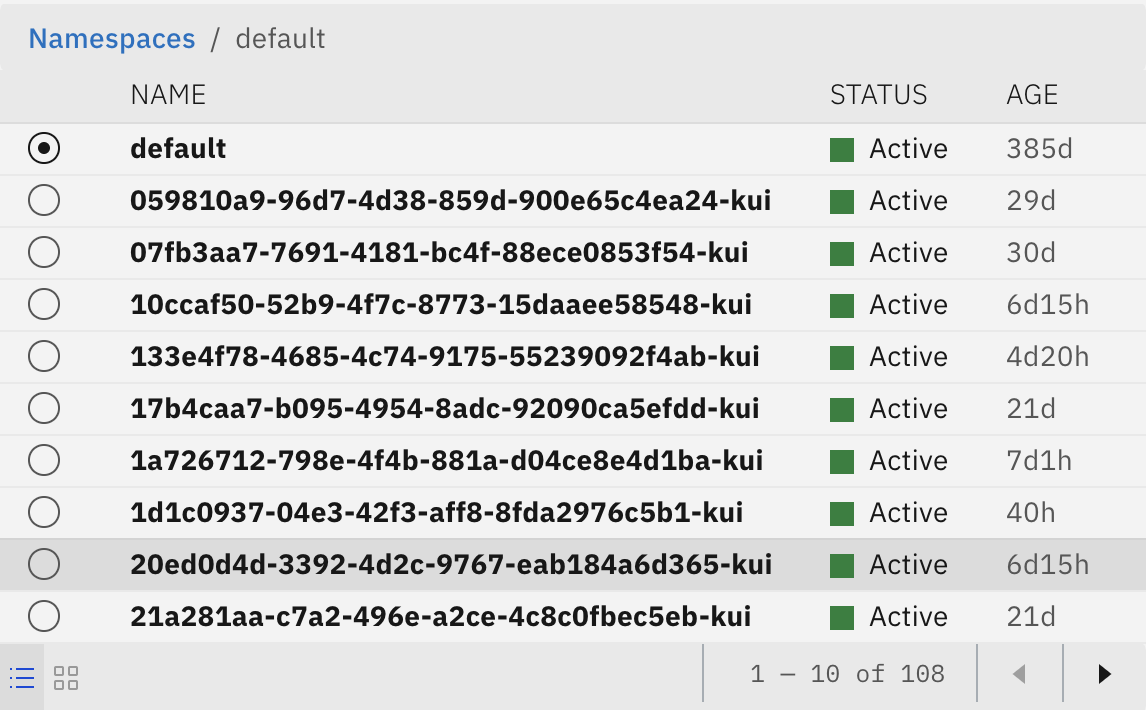
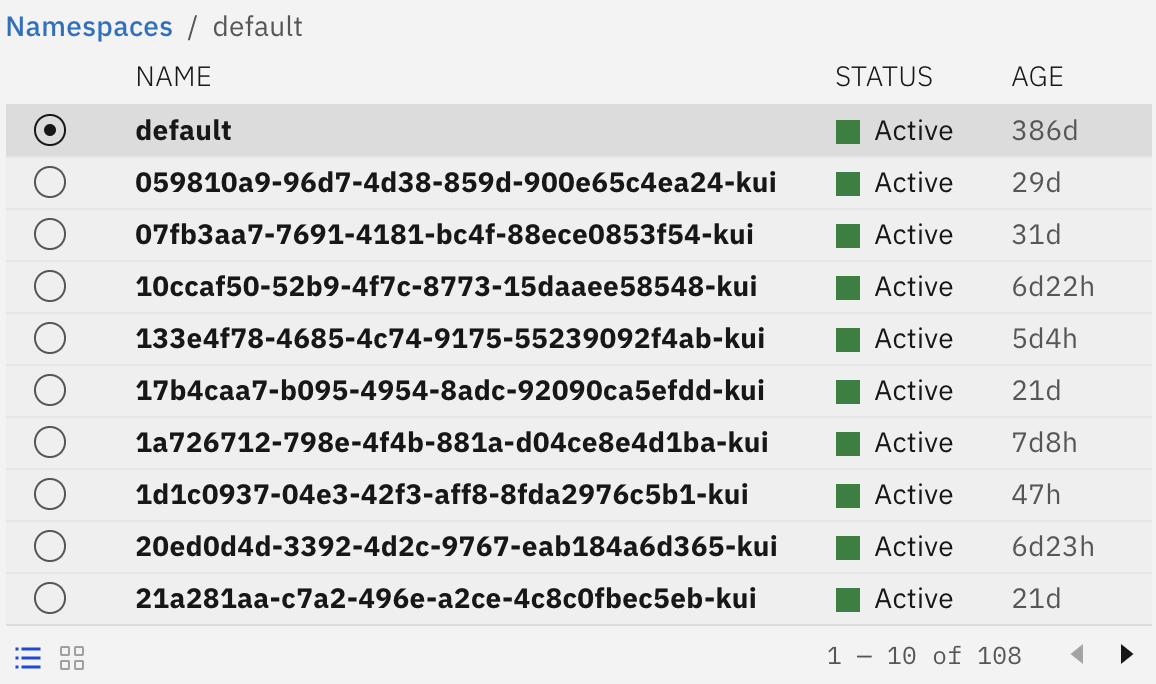
fix: lighten up the PaginatedTable UI
Fixes #4155

diff --git a/plugins/plugin-client-common/web/scss/components/Table/Toolbar.scss b/plugins/plugin-client-common/web/scss/components/Table/Toolbar.scss
@@ -1,15 +1,9 @@
-$toolbar-height: 2.375em;
+$toolbar-height: 1.875em;
 
 body[kui-theme-style='light'] {
-  .kui--data-table-toolbar,
-  .bx--data-table-container.kui--data-table-container-with-toolbars.kui--data-table-container-with-title th {
-    background-color: rgba(0, 0, 0, 0.0375);
-  }
-}
-body[kui-theme-style='dark'] {
-  .kui--data-table-toolbar,
-  .bx--data-table-container.kui--data-table-container-with-toolbars.kui--data-table-container-with-title th {
-    background-color: var(--color-base01);
+  .bx--data-table-container.kui--data-table-container-with-toolbars.kui--data-table-container-with-title td,
+  .bx--data-table.kui--data-table-as-grid {
+    background-color: rgba(0, 0, 0, 0.01375);
   }
 }
 
@@ -17,13 +11,29 @@ body[kui-theme-style='dark'] {
   padding-top: 0;
 }
 
+.kui--data-table-wrapper {
+  /* so that captured screenshots have some padding away from the breadcrumbs */
+  padding: 0 0.1875em;
+}
+
+.kui--toolbar-button-with-icon {
+  &[data-enabled='true'] {
+    svg {
+      fill: var(--color-base0D);
+      path {
+        /* give the enabled button a bit more weight */
+        stroke: var(--color-base0D);
+        stroke-width: 1.1;
+      }
+    }
+  }
+  &[data-enabled='false'] svg {
+    filter: opacity(0.375);
+  }
+}
+
 body[kui-theme-style] .kui--data-table-toolbar {
   display: flex;
-  border-radius: 2px / 4px;
-
-  &:first-child {
-    margin-top: 0.125em;
-  }
 
   nav[aria-label='Breadcrumb'] {
     overflow-x: unset;
@@ -38,10 +48,18 @@ body[kui-theme-style] .kui--data-table-toolbar {
     height: $toolbar-height;
   }
 
-  [aria-label='Breadcrumb'] {
+  &.kui--data-table-toolbar-bottom {
+    padding-top: 0.1875em;
+  }
+
+  nav[aria-label='Breadcrumb'] {
     display: flex;
     align-items: center;
     flex: 1;
+
+    .bx--breadcrumb {
+      padding-left: 0;
+    }
   }
 
   .kui--toolbar-button-with-icon {
@@ -64,7 +82,6 @@ body[kui-theme-style] .kui--data-table-toolbar {
     border: none;
     background-color: transparent;
     width: unset;
-    height: $toolbar-height;
     align-items: unset;
 
     .kui--data-table-toolbar-pagination-info {
@@ -75,8 +92,7 @@ body[kui-theme-style] .kui--data-table-toolbar {
       display: flex;
       justify-content: flex-end;
       align-items: center;
-      border-left: 1px solid;
-      border-color: var(--color-table-border3);
+      border: none;
     }
   }
 }

diff --git a/plugins/plugin-client-common/src/components/Table/PaginatedTable.tsx b/plugins/plugin-client-common/src/components/Table/PaginatedTable.tsx
@@ -114,7 +114,7 @@ export default class PaginatedTable<P extends Props, S extends State> extends Re
         )
       )
 
-      return <Toolbar breadcrumbs={breadcrumbs.length > 0 && breadcrumbs} />
+      return <Toolbar className="kui--data-table-toolbar-top" breadcrumbs={breadcrumbs.length > 0 && breadcrumbs} />
     }
   }
 
@@ -131,7 +131,8 @@ export default class PaginatedTable<P extends Props, S extends State> extends Re
     return (
       this.props.toolbars && (
         <Toolbar
-          frame={this.state.asGrid}
+          framed
+          className="kui--data-table-toolbar-bottom"
           asGrid={this.state.asGrid}
           gridableColumn={this.state.gridableColumn}
           setAsGrid={(asGrid: boolean) => this.setState({ asGrid })}

diff --git a/plugins/plugin-client-common/src/components/Table/Toolbar.tsx b/plugins/plugin-client-common/src/components/Table/Toolbar.tsx
@@ -30,7 +30,8 @@ import 'carbon-components/scss/components/pagination/_pagination.scss'
 export type Props = Partial<GridProps> &
   Partial<PaginationProps> &
   Partial<BreadcrumbProps> & {
-    frame?: boolean
+    framed?: boolean
+    className?: string
   }
 
 interface GridProps {
@@ -168,8 +169,10 @@ export default class Toolbar extends React.PureComponent<Props> {
   }
 
   public render() {
+    const className = 'kui--data-table-toolbar' + (this.props.className ? ` ${this.props.className}` : '')
+
     return (
-      <div className="kui--data-table-toolbar" data-frame={this.props.frame}>
+      <div className={className} data-frame={this.props.framed}>
         {this.breadcrumbs()}
         {this.buttons()}
         {this.filler()}

diff --git a/plugins/plugin-client-common/web/scss/components/Table/kui-tables.scss b/plugins/plugin-client-common/web/scss/components/Table/kui-tables.scss
@@ -9,14 +9,19 @@ body[kui-theme-style] {
       tbody tr.bx--data-table--selected:hover {
         &,
         td {
-          background-color: var(--color-base03);
+          background-color: var(--color-ui-03);
         }
       }
 
-      &.bx--data-table--compact td {
-        border-color: transparent;
-        border-bottom: 1px solid var(--color-base03);
-        vertical-align: middle;
+      &.bx--data-table--compact {
+        td {
+          border-color: transparent;
+          border-bottom: 1px solid var(--color-base03);
+          vertical-align: middle;
+        }
+        tr:last-child td {
+          border-bottom: none;
+        }
       }
     }
   }

diff --git a/plugins/plugin-client-common/web/scss/components/Table/pagination.scss b/plugins/plugin-client-common/web/scss/components/Table/pagination.scss
@@ -32,7 +32,7 @@ body[kui-theme-style] .bx--pagination {
 
   .bx--pagination__button {
     fill: var(--color-text-01);
-    padding: 0 0.875em;
+    padding: 0 0.1875em;
 
     &:focus {
       outline-color: var(--color-brand-03);
@@ -52,10 +52,10 @@ body[kui-theme-style] .bx--pagination {
 
   .bx--select-input,
   .bx--pagination__button {
-    border-color: var(--color-table-border3);
+    border: none;
   }
 
-  .bx--pagination__button:hover {
+  .bx--pagination__button:not(.bx--pagination__button--no-index):hover {
     background-color: var(--color-table-border3);
   }
 }

diff --git a/plugins/plugin-client-common/web/scss/components/Table/tables.scss b/plugins/plugin-client-common/web/scss/components/Table/tables.scss
@@ -115,9 +115,10 @@ body .bx--data-table-container {
 
     tbody {
       .bx--data-table--selected {
+        background-color: var(--color-ui-03);
         td {
           color: var(--color-text-01);
-          background-color: var(--color-ui-02);
+          background-color: var(--color-ui-03);
           border-color: transparent;
         }
       }

diff --git a/plugins/plugin-client-common/web/css/static/ToolbarButton.scss b/plugins/plugin-client-common/web/css/static/ToolbarButton.scss
@@ -13,14 +13,4 @@
       fill: var(--color-text-01) !important;
     }
   }
-
-  &[data-enabled='true'] {
-    background-color: var(--color-base03);
-    svg {
-      fill: var(--color-base0D);
-    }
-  }
-  &[data-enabled='false'] svg {
-    filter: opacity(0.375);
-  }
 }

diff --git a/plugins/plugin-carbon-themes/web/css/carbon-gray10.css b/plugins/plugin-carbon-themes/web/css/carbon-gray10.css
@@ -96,7 +96,7 @@ body[kui-theme="Carbon Gray10"] {
   --color-brand-03: #0062ff;
 
   --color-ui-05: #171717;
-  --color-ui-03: var(--color-background-inverted02);
+  --color-ui-03: #e0e0e0;
   --color-text-02: #565656;
 
   --color-map-key: #6ea6ff;
